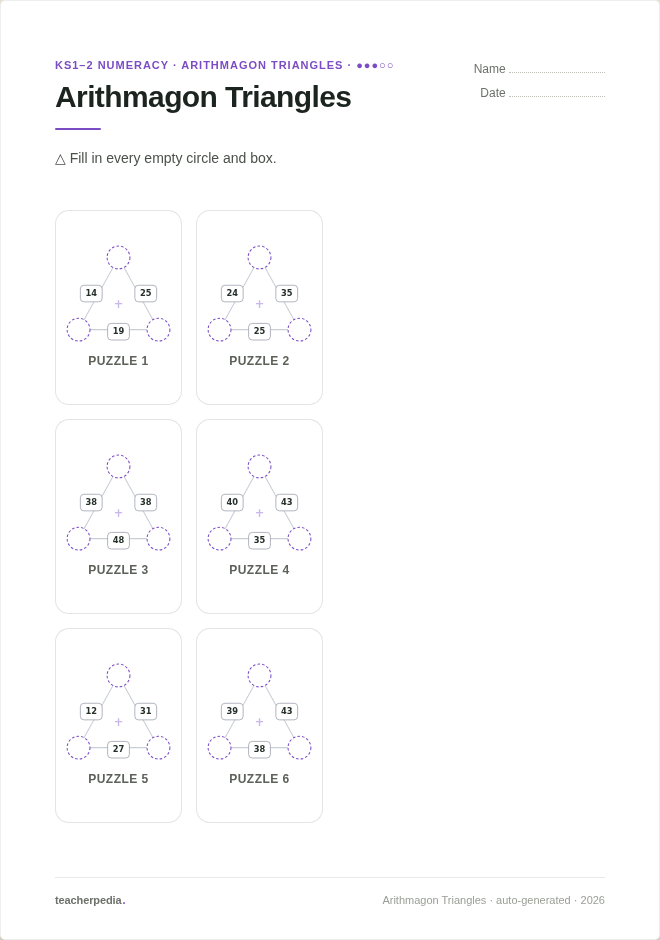
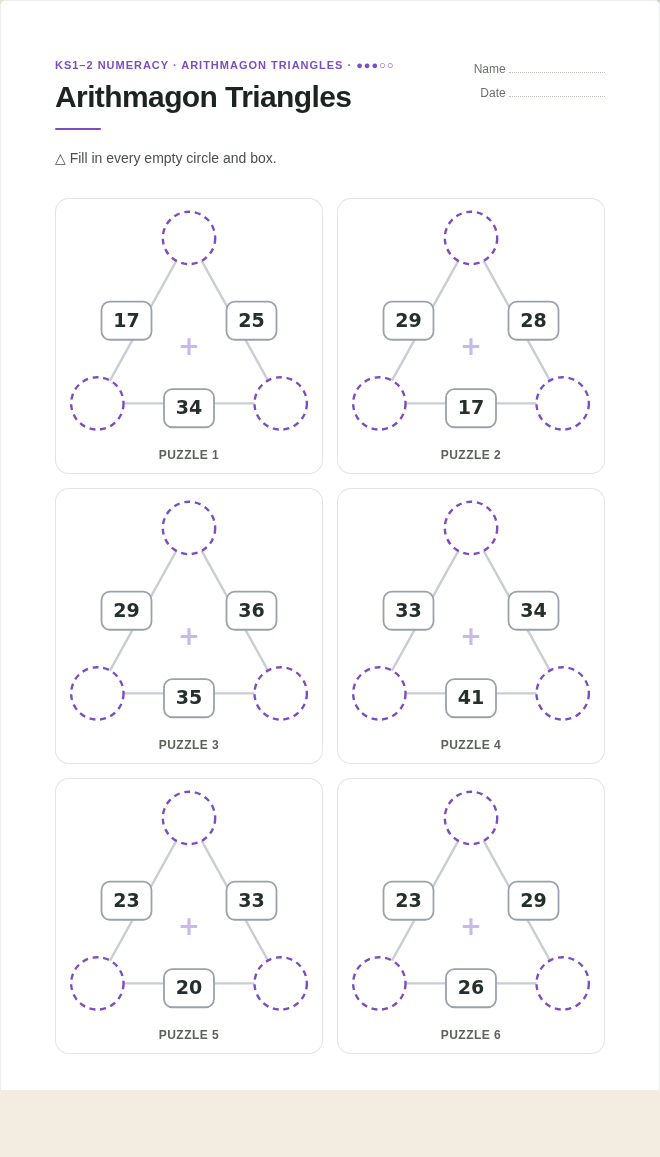
Arithmagon: fix nested grid so rows spread evenly across the page
Root cause of the dead space: render() wrapped the cards in a SECOND .ag-grid
inside #ag-grid (which is already the grid), so the column count and the
align-content/row-fill rules were acting on a one-child outer grid — the real
card rows were never distributed.

Now the cards render directly into #ag-grid, cards are compact (sized to the
triangle), and align-content:space-between spreads the real rows down the page.
Result: e.g. 9-up is a 3x3 of large, evenly-spaced triangles filling the A4 with
the footer at the bottom; 6-up and 4-up likewise. Verified via dev/print-preview
on the real A4 output; feature image refreshed.

Claude-Session: https://claude.ai/code/session_01DAwZPbqNSrmfJge6t7jxHG

diff --git a/public_html/assets/js/arithmagons.js b/public_html/assets/js/arithmagons.js
@@ -186,12 +186,15 @@
       els.intro.innerHTML = '&#9651; Fill in every empty circle and box.';
     }
     var revealed = state.tab === 'answers';
-    var html = '<div class="ag-grid" style="--ag-cols:' + (state.count >= 9 ? 3 : 2) + ';">';
+    // Render the cards DIRECTLY into #ag-grid (which is itself the grid) — no
+    // nested wrapper — so the column count and row distribution act on the real
+    // card rows.
+    els.grid.style.setProperty('--ag-cols', state.count >= 9 ? 3 : 2);
+    var html = '';
     state.puzzles.forEach(function (p, i) {
       html += '<figure class="ag-card">' + triangleSVG(p, revealed) +
         '<figcaption class="ag-cap">Puzzle ' + (i + 1) + '</figcaption></figure>';
     });
-    html += '</div>';
     els.grid.innerHTML = html;
   }
 

diff --git a/app/Views/arithmagons/index.php b/app/Views/arithmagons/index.php
@@ -30,12 +30,13 @@
       text-transform: uppercase; color: var(--muted, #6c716a);
       margin-top: 6px;
     }
-    /* The sheet stands as tall as a page; the rows share the height equally so
-       the grid fills the page, with each triangle+caption centred as a group in
-       its cell, and the footer ends at the bottom. Same on screen and in print. */
+    /* The sheet stands as tall as a page; cards stay compact (sized to the
+       triangle) and the leftover height is spread BETWEEN the rows
+       (align-content:space-between, now acting on the real card rows) so the
+       puzzles are evenly distributed down the page with no dead space inside the
+       cards, and the footer ends at the bottom. Same on screen and in print. */
     .ag-sheet { min-height: 940px; display: flex; flex-direction: column; }
-    .ag-sheet #ag-grid { flex: 1 1 auto; grid-auto-rows: 1fr; }
-    .ag-sheet .ag-card { height: 100%; }
+    .ag-sheet #ag-grid { flex: 1 1 auto; align-content: space-between; }
     .ag-sheet .sheet-foot { margin-top: 14px; }
 
     @media print {
